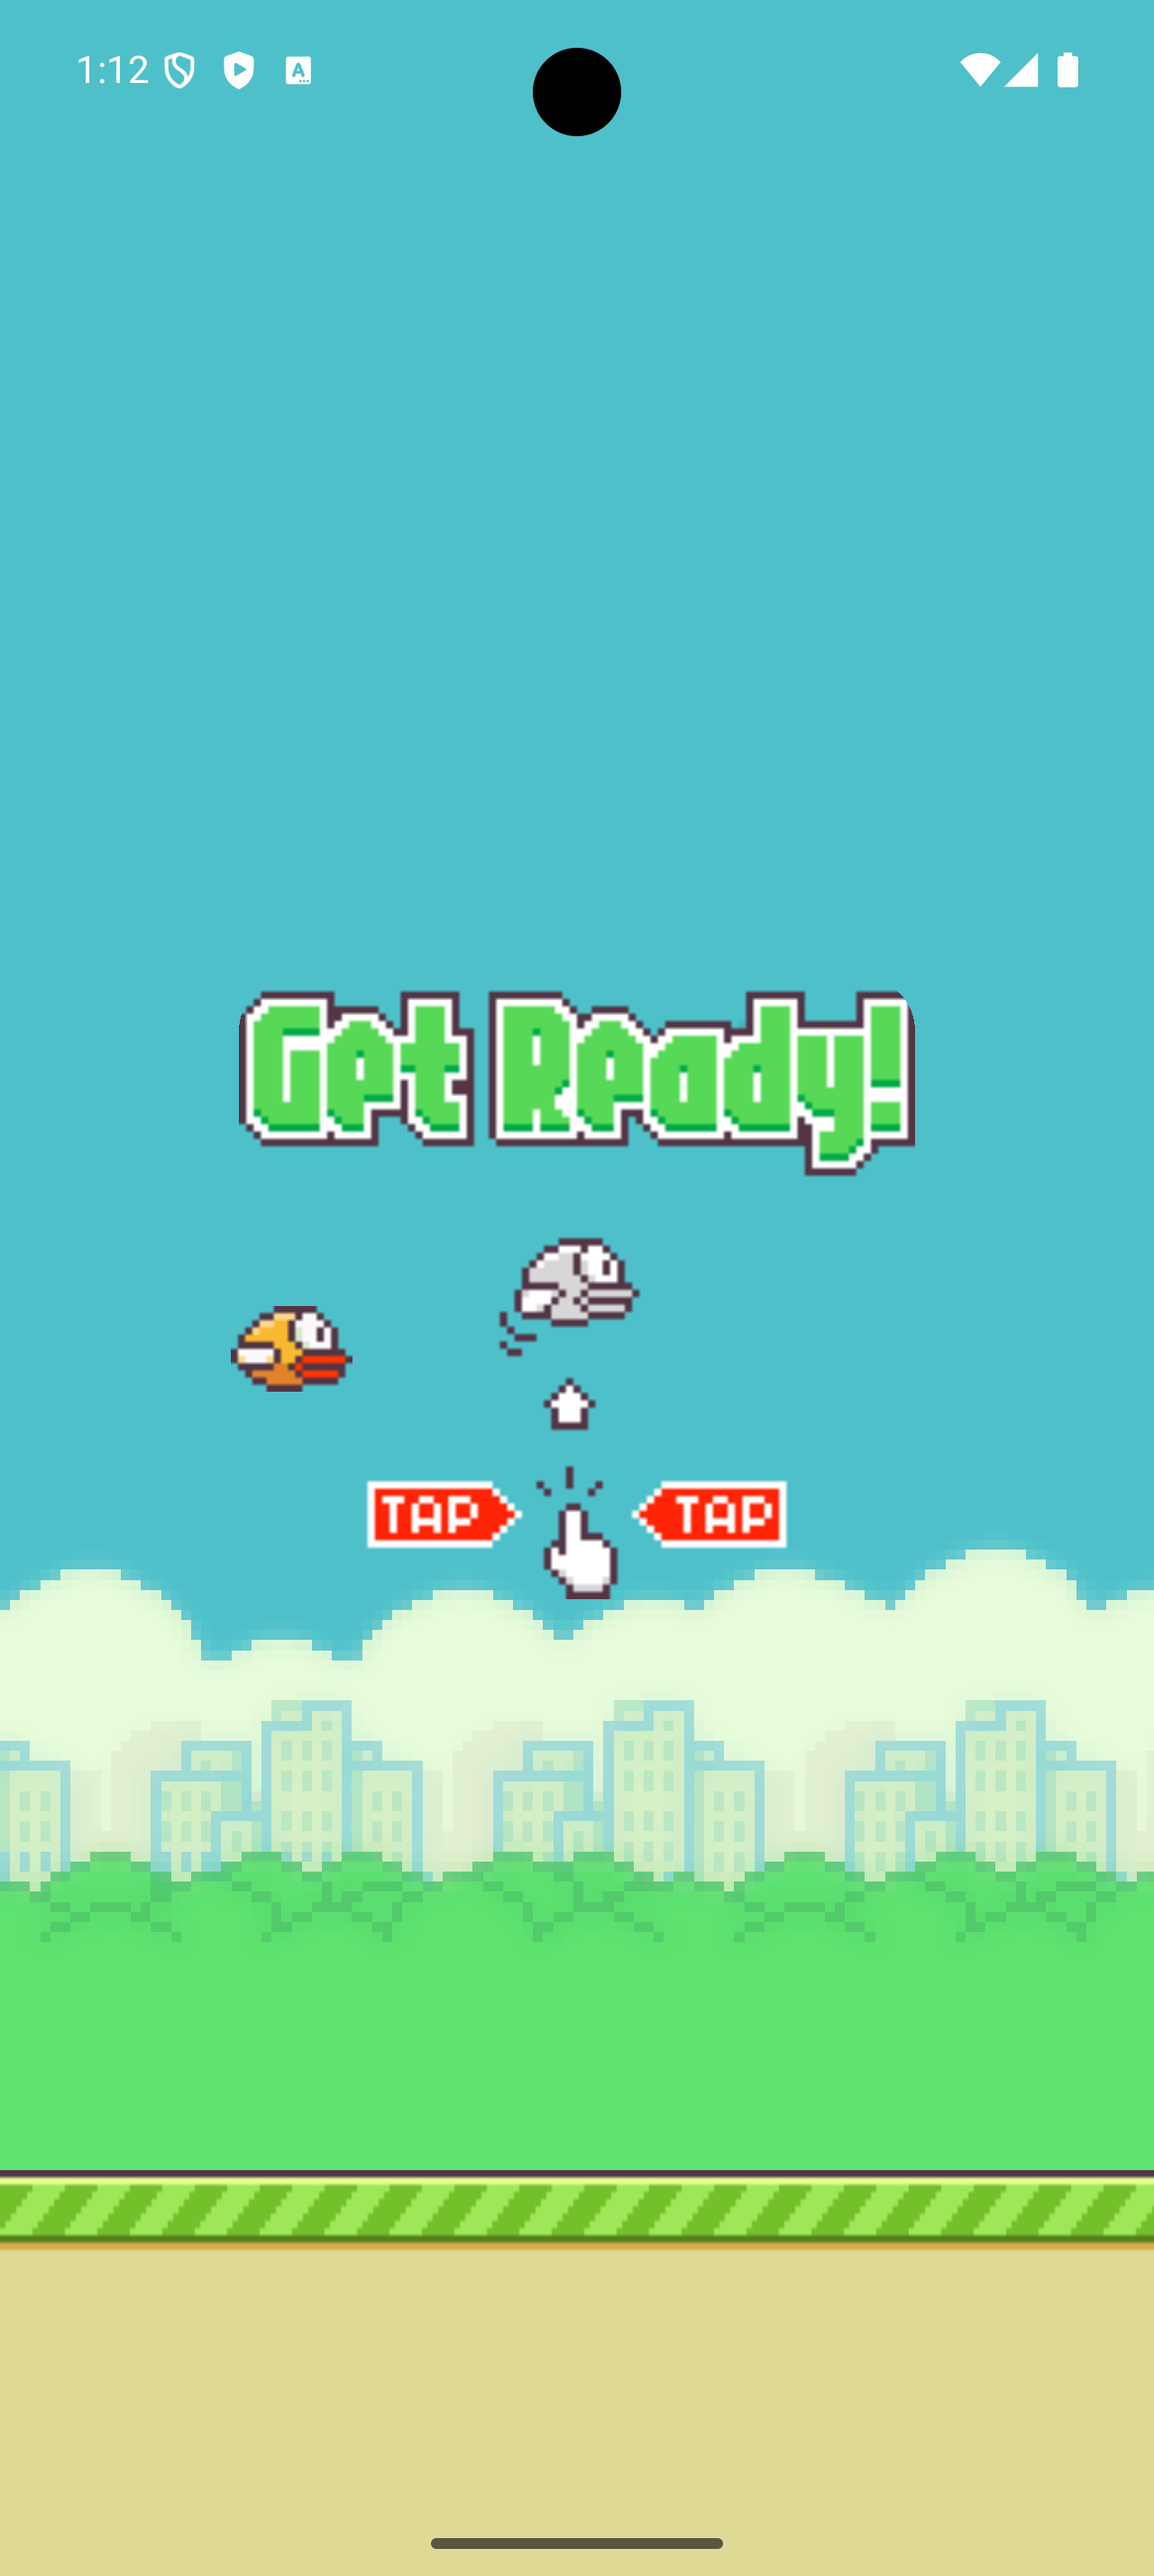
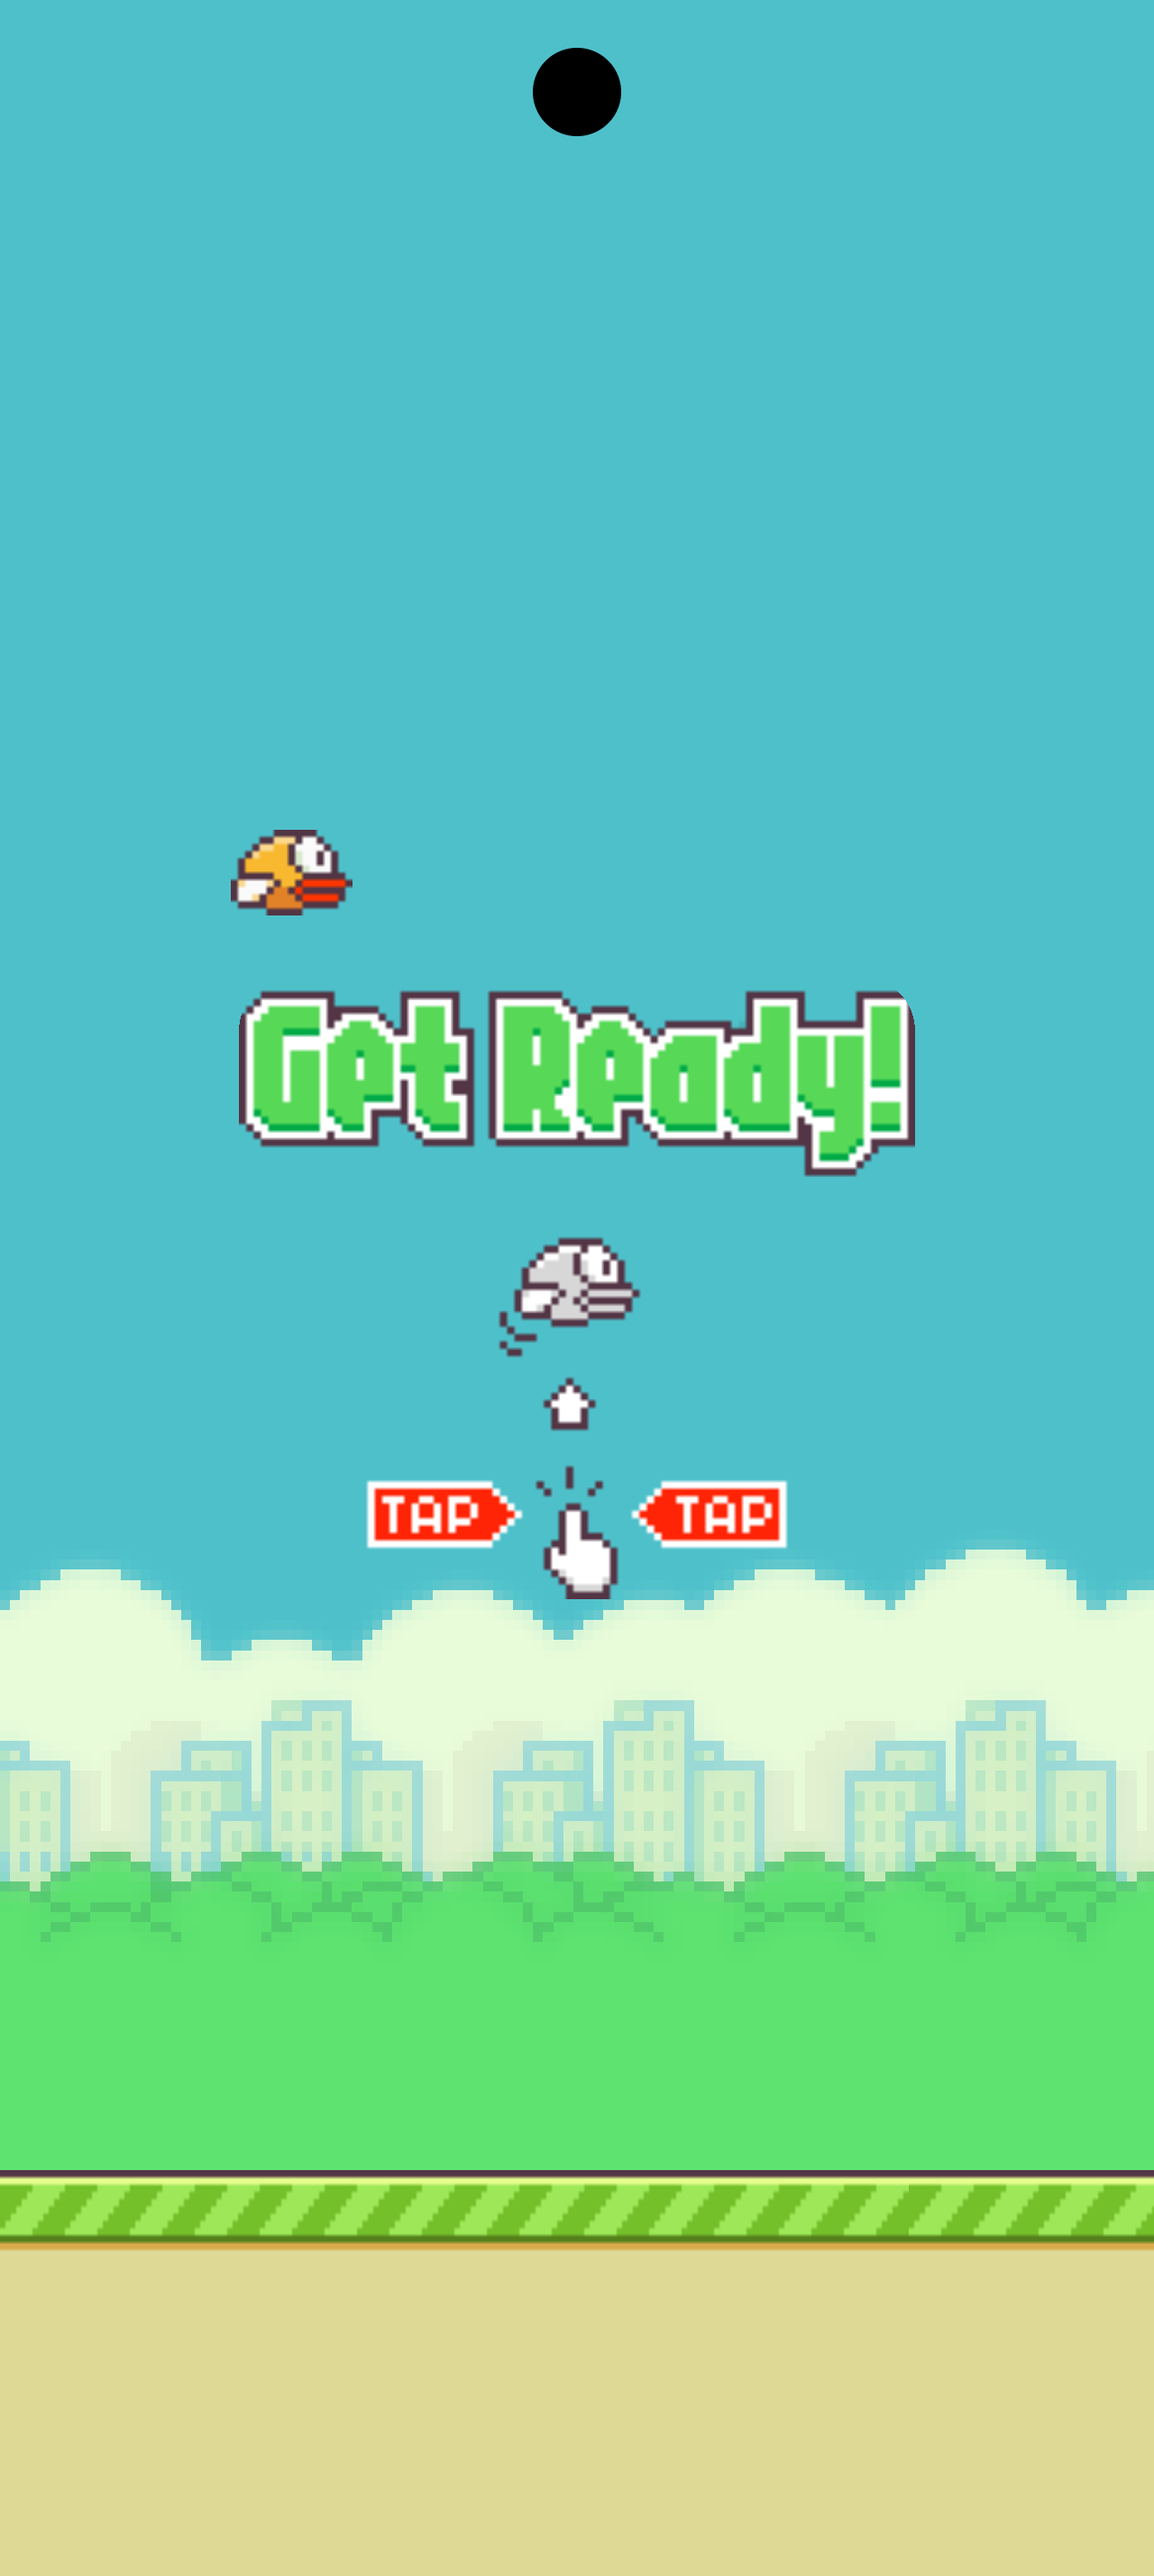
score display bug fix and Screenshots updated

diff --git a/lib/screens/game_screen.dart b/lib/screens/game_screen.dart
@@ -66,7 +66,7 @@ class _GameScreenState extends State<GameScreen> {
                   child: Align(
                     alignment: Alignment.topRight,
                     child: ScoreDisplay(
-                      score: 0,
+                      score: state.score,
                       digitWidth: 28,
                       digitHeight: 40,
                     ),
